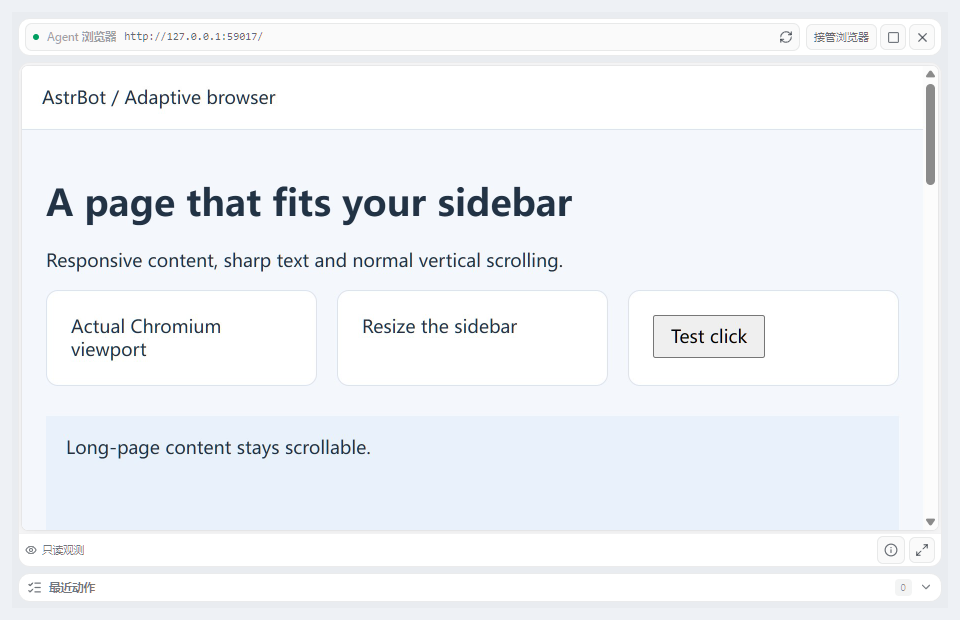
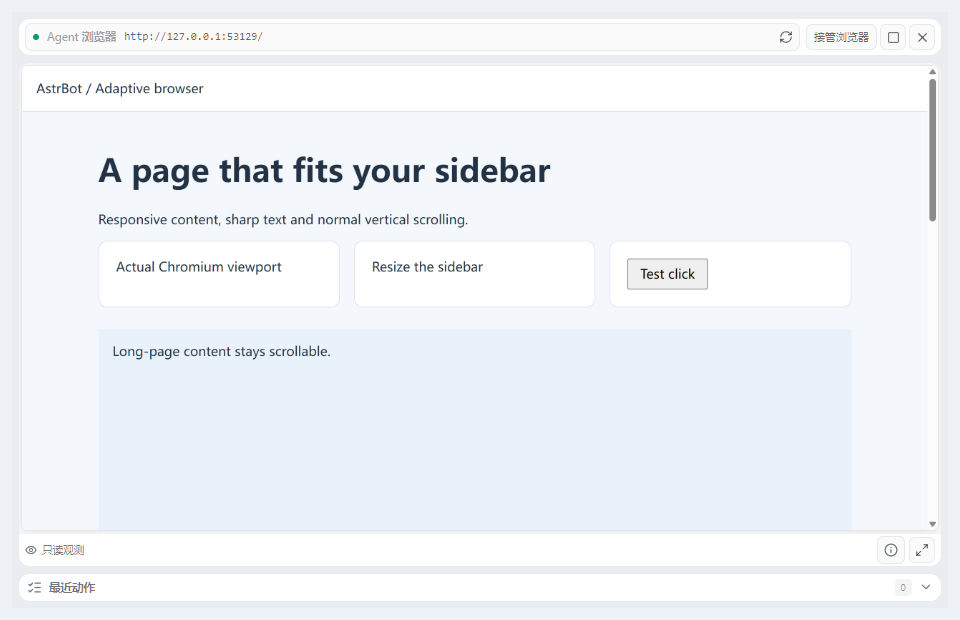
fix: preserve desktop browser layout when fitting sidebar width

diff --git a/dashboard/src/components/chat/AgentBrowserView.spec.ts b/dashboard/src/components/chat/AgentBrowserView.spec.ts
@@ -40,7 +40,7 @@ afterEach(() => {
 });
 
 describe("Agent browser snapshots", () => {
-  it("debounces viewport sizing and recovers when Chromium resets or defers it", async () => {
+  it("keeps desktop layout width after the resize debounce and recovers when Chromium resets or defers it", async () => {
     vi.useFakeTimers();
     let resized: () => void = () => {};
     vi.stubGlobal(
@@ -88,14 +88,14 @@ describe("Agent browser snapshots", () => {
           params: {
             chat_id: "chat-1",
             browser_session_id: "browser-1",
-            width: 900,
-            height: 600,
+            width: 1280,
+            height: 853,
             device_scale_factor: 2,
           },
         },
       ]);
       for (const [sequence, width, height] of [
-        [2, 900, 600],
+        [2, 1280, 853],
         [3, 1280, 720],
       ]) {
         stream.enqueue(
@@ -122,8 +122,8 @@ describe("Agent browser snapshots", () => {
       await vi.advanceTimersByTimeAsync(700);
       expect(post).toHaveBeenCalledTimes(3);
       expect(post.mock.calls[2][2].params).toMatchObject({
-        width: 900,
-        height: 600,
+        width: 1280,
+        height: 853,
       });
       Object.defineProperty(display, "clientWidth", { value: 706 });
       resized();
@@ -136,7 +136,65 @@ describe("Agent browser snapshots", () => {
     }
   });
 
-  it("fits high-resolution pixels immediately while an Agent action defers viewport resizing", async () => {
+  it.each([
+    [320, 1200, 1280, 1600],
+    [900, 50, 1280, 240],
+    [1900, 900, 1900, 900],
+    [3200, 1800, 2560, 1440],
+  ])(
+    "bounds the layout for a %i by %i panel without letting height reduce its width",
+    async (width, height, expectedWidth, expectedHeight) => {
+      vi.useFakeTimers();
+      let resized = () => {};
+      vi.stubGlobal(
+        "ResizeObserver",
+        class {
+          constructor(callback: () => void) {
+            resized = callback;
+          }
+          observe() {}
+          disconnect() {}
+        },
+      );
+      get.mockResolvedValue(
+        ok({
+          ...current,
+          viewport_resize_version: 1,
+          sequence: 1,
+          image: "pixels",
+          mime_type: "image/jpeg",
+          width: 1280,
+          height: 720,
+        }),
+      );
+      post.mockResolvedValue(ok({}));
+      const view = mount(AgentBrowserView, {
+        props: { chatId: "chat-1", visible: true },
+        attachTo: document.body,
+      });
+      try {
+        await flushPromises();
+        const display = view.get(".agent-browser-image").element as HTMLElement;
+        display.style.padding = "0";
+        Object.defineProperties(display, {
+          clientWidth: { value: width },
+          clientHeight: { value: height },
+        });
+        resized();
+        await vi.advanceTimersByTimeAsync(350);
+        expect(post).toHaveBeenCalledTimes(1);
+        expect(post.mock.calls[0][2].params).toMatchObject({
+          width: expectedWidth,
+          height: expectedHeight,
+        });
+      } finally {
+        view.unmount();
+        vi.unstubAllGlobals();
+      }
+    },
+  );
+
+  it("fits pixels to width without shrinking them to the available height during an Agent action", async () => {
     vi.useFakeTimers();
     let resized: () => void = () => {};
     vi.stubGlobal(
@@ -182,8 +240,8 @@ describe("Agent browser snapshots", () => {
       });
       resized();
       await view.vm.$nextTick();
-      expect(viewport.style.width).toBe("320px");
-      expect(viewport.style.height).toBe("200px");
+      expect(viewport.style.width).toBe("396px");
+      expect(viewport.style.height).toBe("247.5px");
       Object.defineProperties(display, {
         clientWidth: { value: 256 },
         clientHeight: { value: 486 },

diff --git a/dashboard/src/components/chat/AgentBrowserView.vue b/dashboard/src/components/chat/AgentBrowserView.vue
@@ -178,10 +178,15 @@ async function resizeViewport(attempt = 0) {
     return;
   const { width, height } = displaySize.value;
   if (width <= 0 || height <= 0) return;
-  const ratio = Math.min(1, 2560 / width, 1600 / height);
+  // Keep a desktop layout in narrow panels; shrinking the CSS viewport makes
+  // minimum-width sites overflow instead of scaling their existing content.
+  const layoutWidth = Math.max(1280, Math.min(2560, Math.floor(width)));
   const dimensions = {
-    width: Math.max(320, Math.floor(width * ratio)),
-    height: Math.max(240, Math.floor(height * ratio)),
+    width: layoutWidth,
+    height: Math.max(
+      240,
+      Math.min(1600, Math.floor((height * layoutWidth) / width)),
+    ),
     device_scale_factor: 2,
   };
   const identity = {
@@ -295,10 +300,7 @@ const visibleFrame = computed(() => {
 const fittedFrameSize = computed(() => {
   const width = visibleFrame.value?.width || 1;
   const height = visibleFrame.value?.height || 1;
-  const scale = Math.min(
-    displaySize.value.width / width,
-    displaySize.value.height / height,
-  );
+  const scale = displaySize.value.width / width;
   return { width: `${width * scale}px`, height: `${height * scale}px` };
 });
 const inputCount = ref(0);
@@ -1940,13 +1942,14 @@ onBeforeUnmount(() => {
   flex: 1;
   min-height: 0;
   min-width: 0;
-  overflow: hidden;
+  overflow-x: hidden;
+  overflow-y: auto;
   padding: 3px;
   background: rgba(var(--browser-ink), 0.035);
   overscroll-behavior: contain;
   container-type: size;
   align-items: center;
-  justify-content: center;
+  justify-content: flex-start;
 }
 .agent-browser-image img {
   display: block;
@@ -1966,8 +1969,6 @@ onBeforeUnmount(() => {
   flex: 0 0 auto;
   width: 100%;
   max-width: 100%;
-  max-height: 100%;
-  margin-block: auto;
   overflow: hidden;
   border-radius: 6px;
   background: white;

diff --git a/docs/en/use/webui.md b/docs/en/use/webui.md
@@ -571,7 +571,7 @@ The screenshot below uses a local example page and deterministic observation eve
 ![Single-row address bar, compact status row and collapsed actions](./images/agent-browser-compact.png)
 
 
-The remote viewport follows the sidebar or fullscreen content area after a 350 ms resize debounce; images retain their aspect ratio. Existing pixels fit the available area immediately as the sidebar changes size, and viewport resets after page operations are synchronized again. Long pages keep normal vertical scrolling: the view does not shrink the entire document into a thumbnail or hide the page's own scrollbars. Resizing waits for an active Agent action and does not interfere with another window's human control. Update AstrBot backend, Dashboard and Browser Use together; older plugins continue displaying their existing viewport proportionally. Snapshots use up to 2x sampling and JPEG quality 90, bounded to 2560×1600. Complex images exceeding the 2 MiB image budget receive lower JPEG quality; stream messages remain bounded to 3 MiB. Actual sharpness and frame rate depend on the page, device and connection.
+Images always scale proportionally to the available sidebar or fullscreen width; limited height no longer makes them narrower, and taller images can scroll vertically. The remote page retains a desktop layout width of at least 1280px, growing with wider panels up to 2560px. Viewport height uses the same scale, bounded to 240–1600px. This keeps narrow panels from cropping common desktop pages with minimum-width layouts; sites whose content exceeds that layout width can still scroll horizontally. Remote sizing follows a 350 ms debounce, while existing pixels fit the width immediately; viewport resets after page operations are synchronized again. Long pages retain normal vertical scrolling without capturing the entire document as a thumbnail. Resizing waits for an active Agent action and does not interfere with another window's human control. Update AstrBot backend, Dashboard and Browser Use together; older plugins continue displaying their existing viewport fitted to width. Snapshots use up to 2x sampling and JPEG quality 90, bounded to 2560×1600. Complex images exceeding the 2 MiB image budget receive lower JPEG quality; stream messages remain bounded to 3 MiB. Actual sharpness and frame rate depend on the page, device and connection.
 
 A manual input made stale by scrolling, navigation or layout changes is reported as not executed. That input and the unsent queue are discarded while ownership remains active, waiting for fresh pixels. Retry explicitly; input is never replayed automatically. Lease heartbeats no longer depend on a page execution context surviving navigation. Actual network loss, logout, revoked access and uncertain execution still stop input and pause the browser.
 

diff --git a/docs/zh/use/webui.md b/docs/zh/use/webui.md
@@ -531,7 +531,7 @@ Windows 离线部署需同时携带 Browser Use `0.3.0` 完整插件包、包含
 ![单行地址栏、紧凑状态栏和收起的动作列表](./images/agent-browser-compact.png)
 
 
-画面会按侧栏或全屏的实际可用宽高调整远程网页视口，拖动结束约 350 毫秒后同步；不会拉伸图片。缩放侧栏时，现有截图立即等比适配可用区域；页面操作重置视口后，会重新同步到侧栏尺寸。长网页保留正常纵向滚动，不会把整页压缩成一张缩略图，也不会隐藏网页自身的滚动条。Agent 动作进行中会延后调整，另一窗口持有人工控制权时只观看。需要同时更新 AstrBot 后端、Dashboard 和 Browser Use 插件；旧插件继续等比显示原画面。快照使用最多 2 倍采样、JPEG 质量 90，最大 2560×1600；复杂页面超过 2 MiB 图片预算时降低压缩质量，流消息仍有 3 MiB 上限。实际清晰度和帧率受页面、设备和连接影响。
+画面始终按侧栏或全屏的可用宽度等比显示，不再为了容纳高度而缩小宽度；超出显示区域的截图可纵向滚动。远程网页保留至少 1280px 的桌面布局宽度，宽侧栏继续扩大，最多 2560px；视口高度按相同比例换算，并限制在 240–1600px。这样窄侧栏不会把具有最小宽度限制的常见桌面页面挤成局部截图。网站内容本身超过这个布局宽度时仍可能出现横向滚动。拖动结束约 350 毫秒后同步远程视口，现有截图立即按宽度适配；页面操作重置视口后会重新同步。长网页保留正常纵向滚动，不会截取整页再压成缩略图。Agent 动作进行中会延后调整，另一窗口持有人工控制权时只观看。需要同时更新 AstrBot 后端、Dashboard 和 Browser Use 插件；旧插件继续按宽度等比显示原画面。快照使用最多 2 倍采样、JPEG 质量 90，最大 2560×1600；复杂页面超过 2 MiB 图片预算时降低压缩质量，流消息仍有 3 MiB 上限。实际清晰度和帧率受页面、设备和连接影响。
 
 手动输入如果因滚动、导航或布局变化而过期，会显示“本次操作未执行”，丢弃该操作及未发送队列，保留接管并等待新画面；请自行重试，不会自动重放。控制心跳不依赖网页执行上下文，导航中的临时上下文销毁不会使心跳失败。真正的网络断开、退出登录、权限撤销和不确定的执行结果仍会停止输入并暂停浏览器。
 
